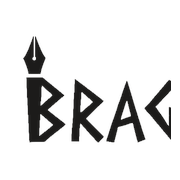
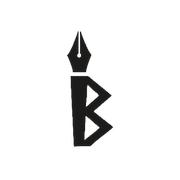
auto-commit for bb362d55-65ea-4572-b5be-8c656e3529e1

diff --git a/frontend/src/App.js b/frontend/src/App.js
@@ -49,8 +49,12 @@ function Protected({ children }) {
   const { user, loading } = useAuth();
   if (loading) {
     return (
-      <div className="min-h-screen flex items-center justify-center">
-        <div className="label-ui">Laster…</div>
+      <div className="min-h-screen flex items-center justify-center px-6" style={{ background: "#ffffff" }}>
+        <img
+          src="/bragr-logo.png"
+          alt="Bragarmål"
+          style={{ width: "100%", maxWidth: 260, height: "auto", opacity: 0.85, animation: "bragr-fade 1.6s ease-in-out infinite" }}
+        />
       </div>
     );
   }

diff --git a/frontend/public/index.html b/frontend/public/index.html
@@ -132,13 +132,17 @@
             display: flex;
             align-items: center;
             justify-content: center;
+            padding: 24px;
+            box-sizing: border-box;
             background: #ffffff;
             z-index: 9999;
             transition: opacity 0.35s ease-out;
           }
           #bragr-boot img {
-            width: 220px;
+            width: 100%;
+            max-width: 280px;
             height: auto;
+            object-fit: contain;
             opacity: 0;
             animation: bragr-fade 1.6s ease-in-out infinite;
           }

diff --git a/frontend/src/index.css b/frontend/src/index.css
@@ -290,3 +290,7 @@ button, a {
   0%,100% { opacity: 0.4; }
   50% { opacity: 1; }
 }
+@keyframes bragr-fade {
+  0%,100% { opacity: 0.35; transform: scale(0.98); }
+  50%     { opacity: 1;    transform: scale(1); }
+}
